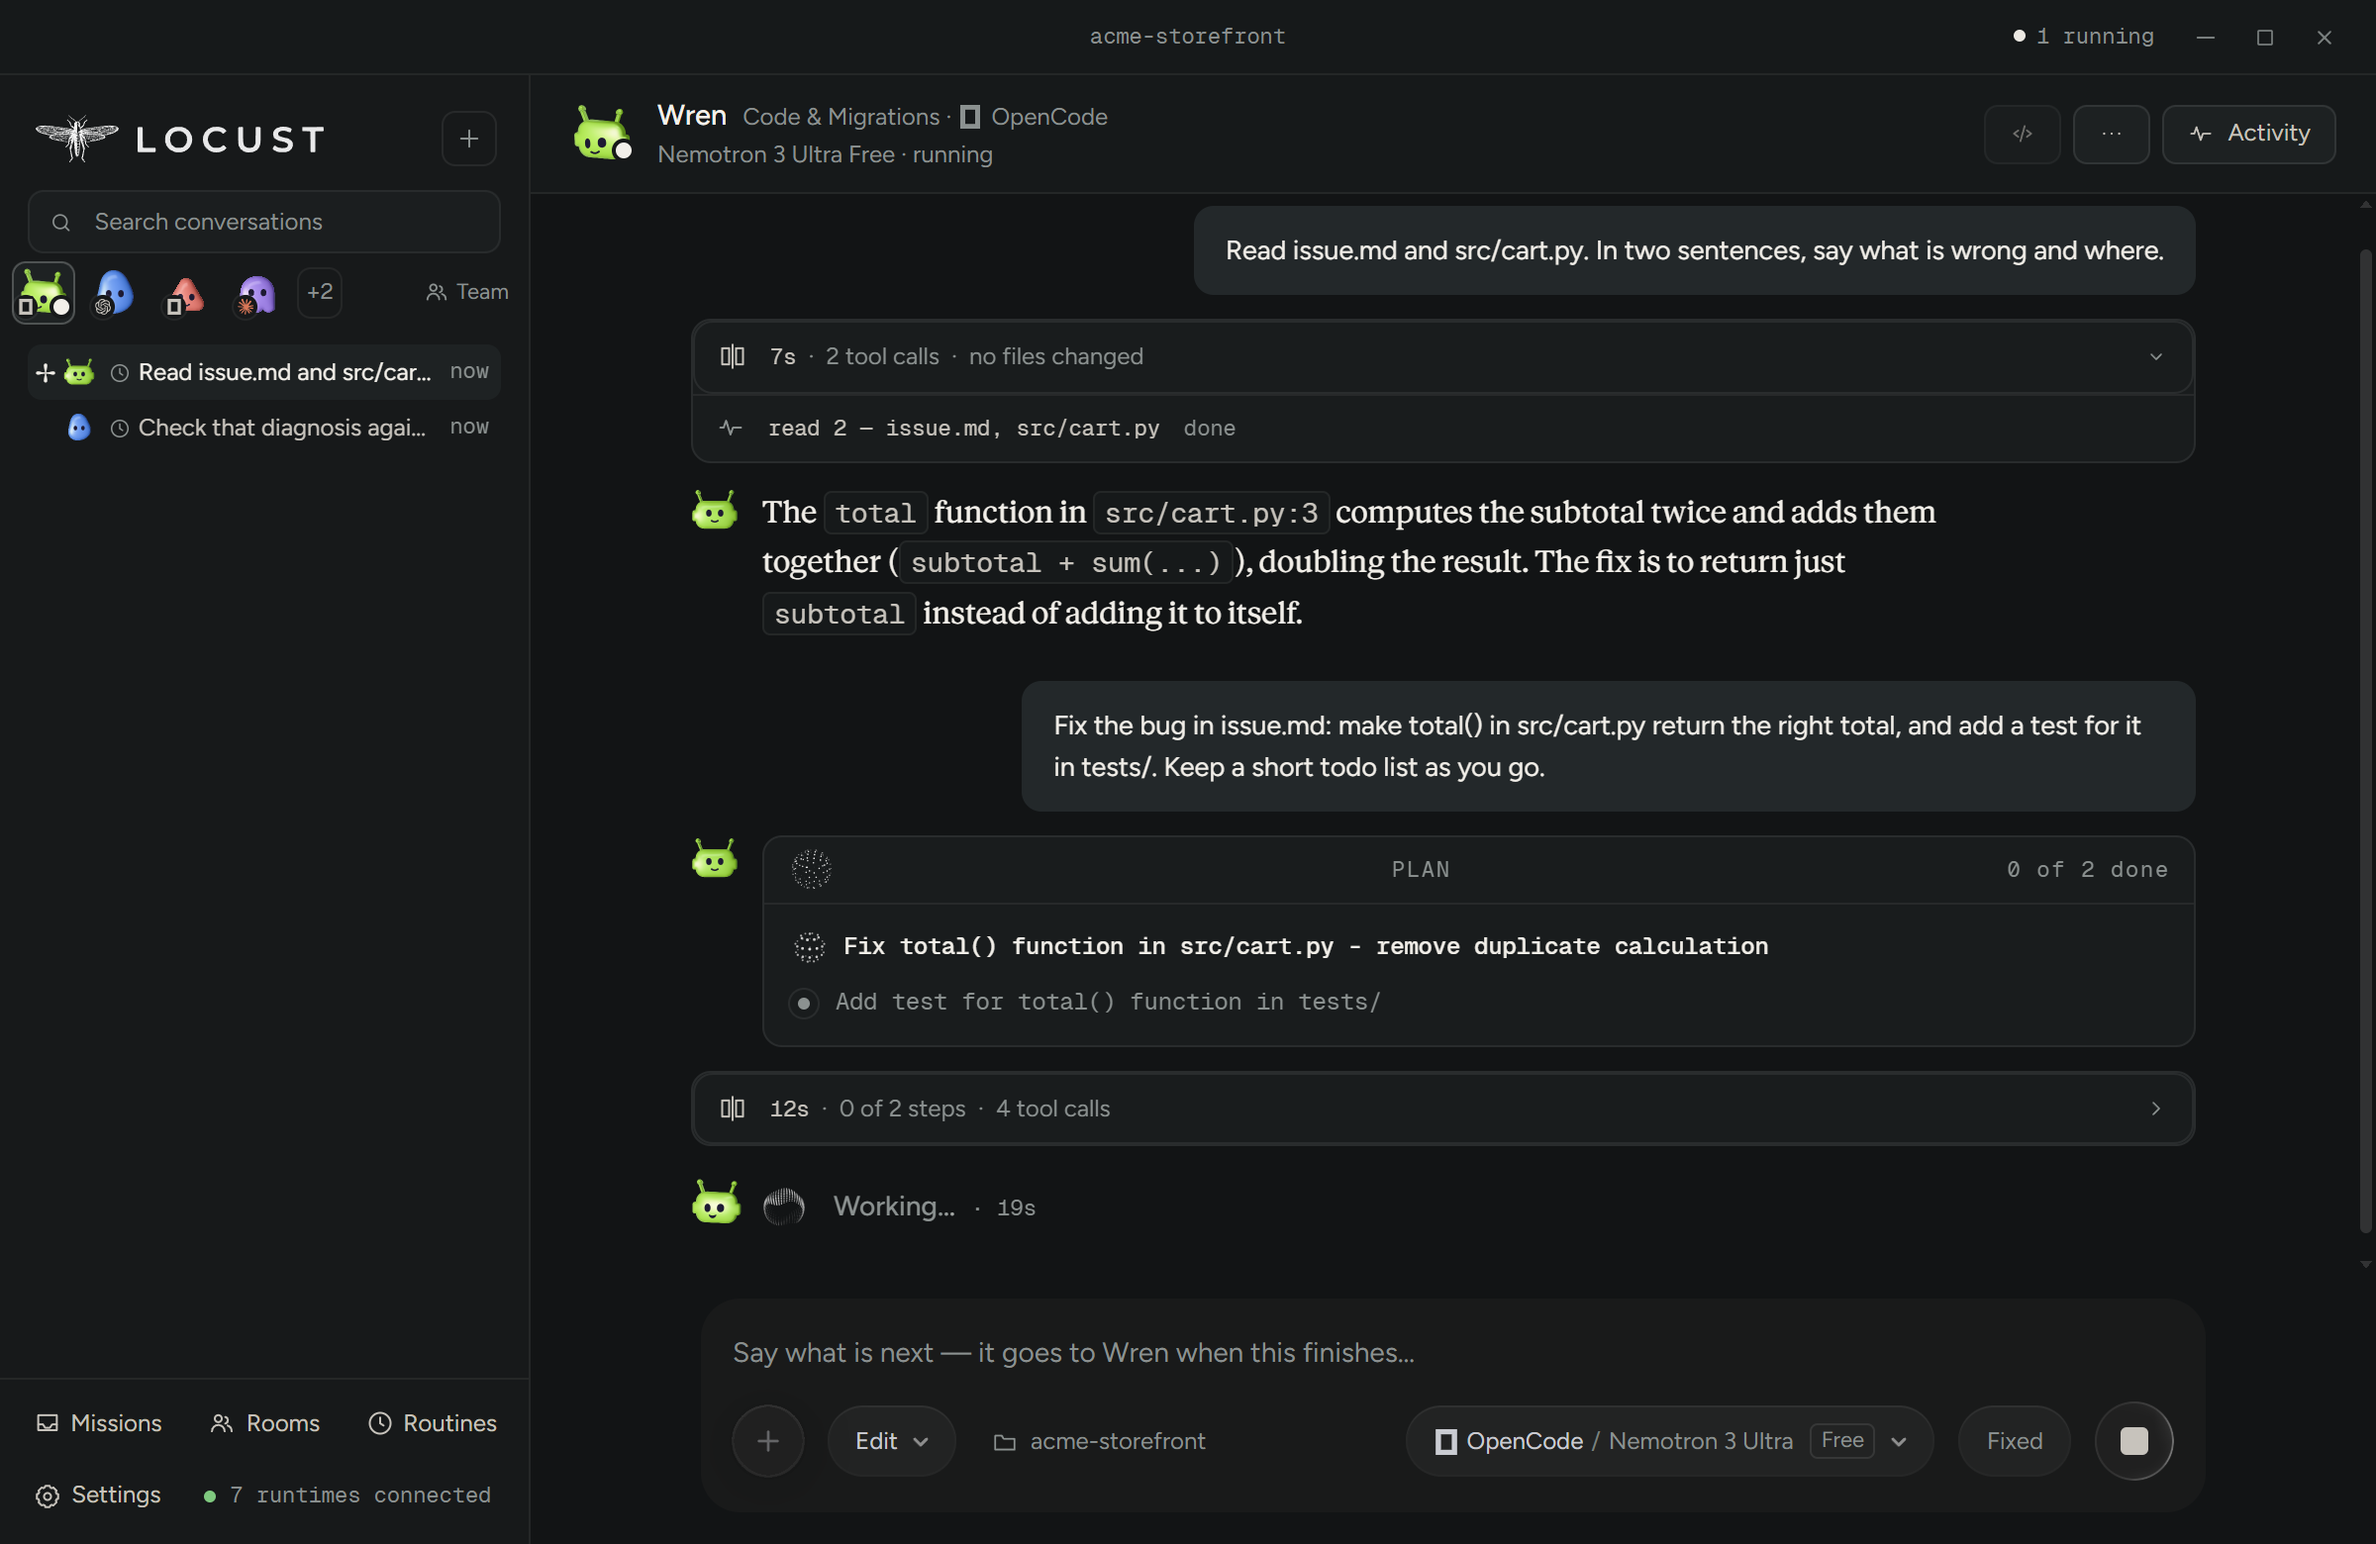
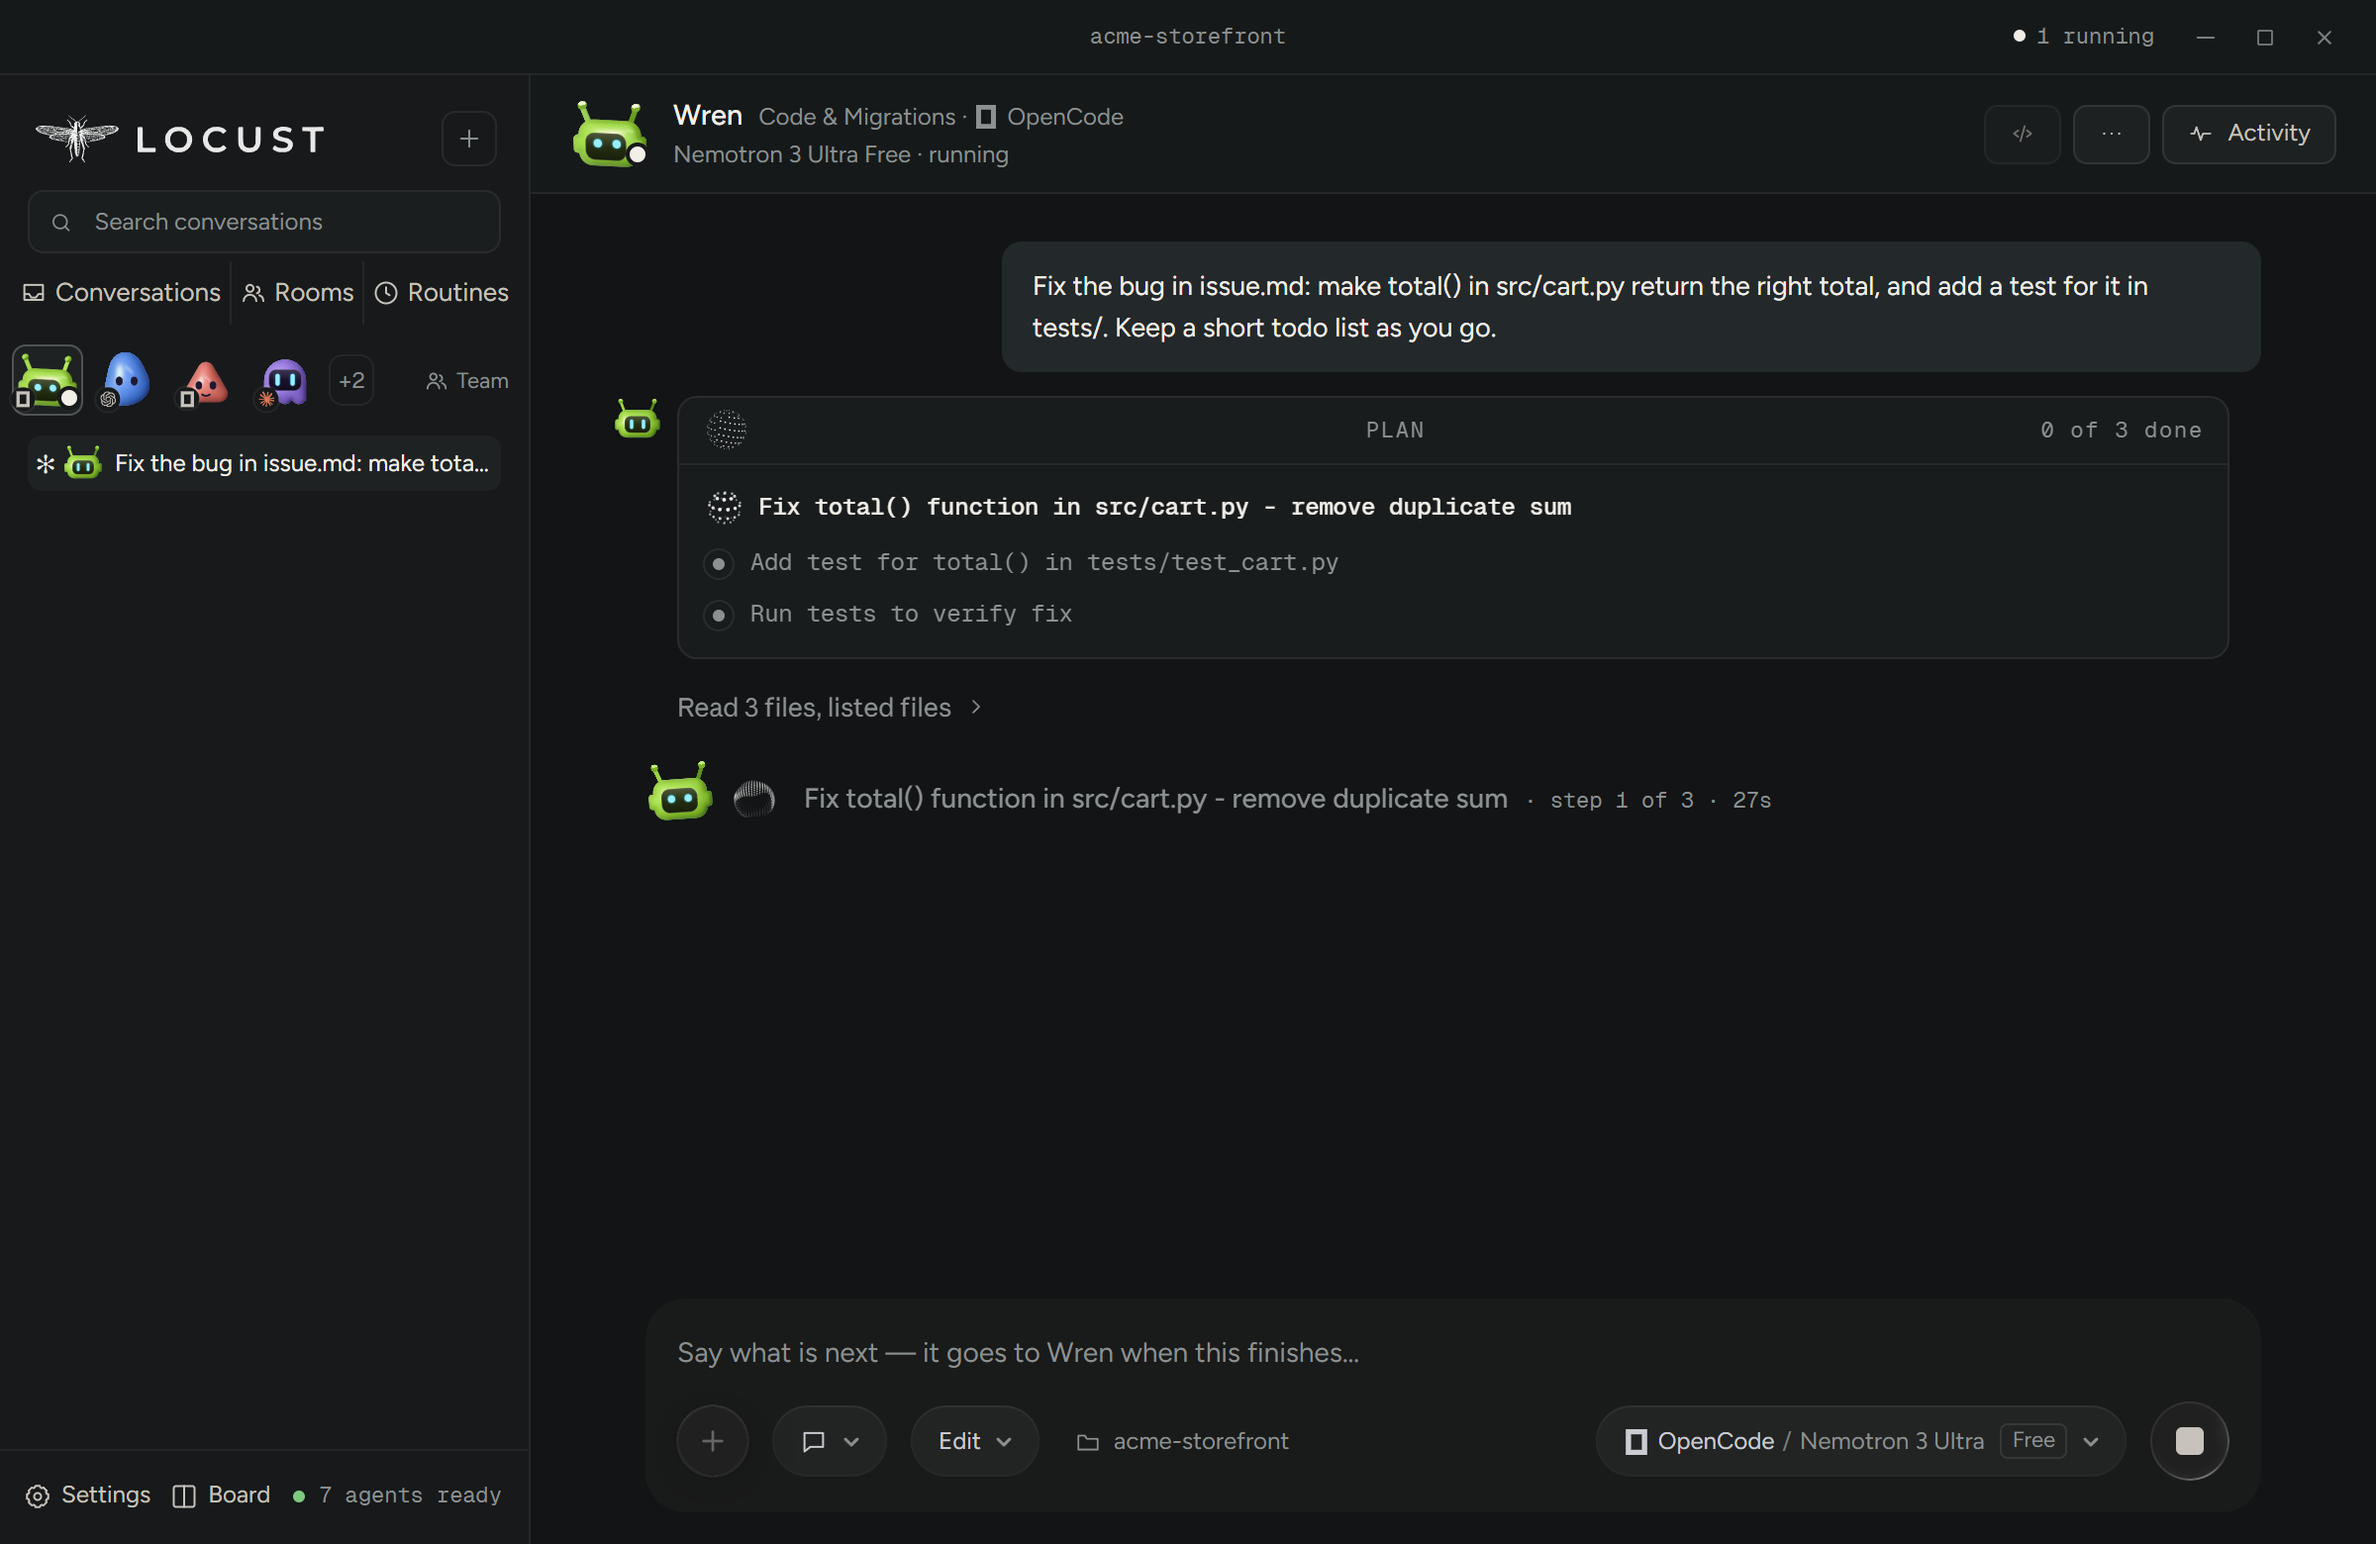
README: eight real frames of 0.619.0, incl. blind compare and the Board

diff --git a/README.md b/README.md
@@ -18,20 +18,24 @@ are the right place for bugs and questions.**
 
 <table>
 <tr>
-<td><img src="assets/shots/01-home.png" alt="Home screen with six teammates, each on its own AI"><br><sub>Your team. Each teammate keeps its own AI and model.</sub></td>
-<td><img src="assets/shots/02-model-picker.png" alt="The model picker with Claude Code and Codex models"><br><sub>One picker for the models your own accounts offer.</sub></td>
+<td><img src="assets/shots/01-home.png" alt="Locust home: a team of six, each teammate on its own AI and model, and Connected accounts: 7 ready"><br><sub>Your team of six, each teammate on its own AI and model. Connected accounts: 7 ready.</sub></td>
+<td><img src="assets/shots/02-model-picker.png" alt="The model picker, grouped by agent, with Opus 5.5 marked active and Antigravity, Claude Code and other agents’ models listed"><br><sub>One picker for the models your own accounts offer, grouped by agent, with the one in use marked.</sub></td>
 </tr>
 <tr>
-<td><img src="assets/shots/03-run-in-progress.png" alt="A teammate working, with its plan card"><br><sub>Watch a teammate work, plan and all.</sub></td>
-<td><img src="assets/shots/04-approval.png" alt="An approval card before a command runs"><br><sub>In Approve each, nothing runs until you have seen the exact command and where it runs.</sub></td>
+<td><img src="assets/shots/03-run-in-progress.png" alt="A teammate working in Edit mode with a three-step plan card, step 1 under way"><br><sub>A run in progress: a three-step plan, step 1 under way, the live line naming the step and its time.</sub></td>
+<td><img src="assets/shots/04-approval.png" alt="An Approve each card showing the exact command, where it runs, and four answers"><br><sub>Approve each: before a command runs you see the exact command, where it runs, and what Locust can and cannot tell about it.</sub></td>
 </tr>
 <tr>
-<td><img src="assets/shots/05-hand-off.png" alt="A hand-off chain where a checker on a different AI approves"><br><sub>Hand-off chains: Wren (OpenCode) diagnoses, Atlas (Codex) checks the code and approves.</sub></td>
-<td><img src="assets/shots/06-finished.png" alt="The finished change with its diff and a new test"><br><sub>The change, the diff and the new test, right in the thread.</sub></td>
+<td><img src="assets/shots/05-hand-off.png" alt="A hand-off chain: Atlas on Codex reads the code and writes VERDICT: APPROVED on Wren’s diagnosis"><br><sub>A hand-off chain: Wren (OpenCode) diagnosed the bug; Atlas (Codex) read the code himself and wrote VERDICT: APPROVED.</sub></td>
+<td><img src="assets/shots/06-finished.png" alt="The finished run: plan 3 of 3 done, two files edited, four tests passing"><br><sub>The finished fix: 2 files edited, a test added, four tests passing, in 1m 01s.</sub></td>
+</tr>
+<tr>
+<td><img src="assets/shots/07-blind-compare.png" alt="A blind compare: Model A and Model B answer the same ask side by side with names hidden, and a judge model can be asked"><br><sub>Blind compare: two models on the same ask, names hidden until you keep one. A judge model can be asked which it would keep.</sub></td>
+<td><img src="assets/shots/09-board.png" alt="The Board: conversations in columns by what they need from you, one under Needs you and one under Done"><br><sub>The Board: every conversation by what it needs from you.</sub></td>
 </tr>
 </table>
 
-<sub>Screenshots from 0.437 and 0.438 on a demo profile; the app has moved on since (the Board, Compare, team cards that say where each teammate stands). The models in the picker are what that account offers; yours come from your own accounts.</sub>
+<sub>Screenshots from Locust 0.619.0 on a fresh demo profile: real runs, no mocks. The models shown are what that machine’s accounts offer; yours come from your own accounts.</sub>
 
 ## What a teammate is
 
